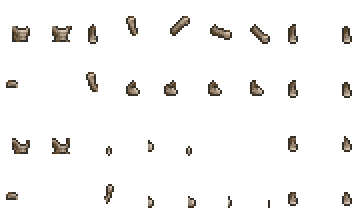
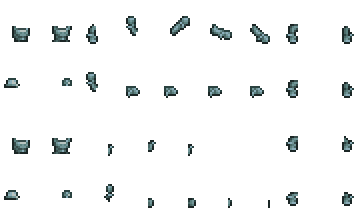
Sporewood armor and Sporangiophore items (sprites only on those ones)

diff --git a/Content/MycorrhizaBiome/SporewoodItems/SporewoodBreastplate.cs b/Content/MycorrhizaBiome/SporewoodItems/SporewoodBreastplate.cs
@@ -7,15 +7,17 @@ using Terraria.ModLoader;
 
 namespace Mycorrhiza.Content.MycorrhizaBiome.SporewoodItems
 {
-	public class SporewoodBreastplate : ModItem, ILocalizedModType
-	{
-		public new string LocalizationCategory => "Items";
+    [AutoloadEquip(EquipType.Body)]
+    public class SporewoodBreastplate : ModItem, ILocalizedModType
+    {
+        public new string LocalizationCategory => "Items";
 
-		public override void SetDefaults()
-		{
-			Item.width = 32;
-			Item.height = 32;
-		}
+        public override void SetDefaults()
+        {
+            Item.width = 22;
+            Item.height = 20;
+            Item.defense = 2;
+        }
 
         public override void AddRecipes()
         {

diff --git a/Content/MycorrhizaBiome/SporewoodItems/SporewoodGreaves.cs b/Content/MycorrhizaBiome/SporewoodItems/SporewoodGreaves.cs
@@ -7,15 +7,17 @@ using Terraria.ModLoader;
 
 namespace Mycorrhiza.Content.MycorrhizaBiome.SporewoodItems
 {
-	public class SporewoodGreaves : ModItem, ILocalizedModType
-	{
-		public new string LocalizationCategory => "Items";
+    [AutoloadEquip(EquipType.Legs)]
+    public class SporewoodGreaves : ModItem, ILocalizedModType
+    {
+        public new string LocalizationCategory => "Items";
 
-		public override void SetDefaults()
-		{
-			Item.width = 32;
-			Item.height = 32;
-		}
+        public override void SetDefaults()
+        {
+            Item.width = 22;
+            Item.height = 20;
+            Item.defense = 1;
+        }
 
         public override void AddRecipes()
         {

diff --git a/Content/MycorrhizaBiome/SporewoodItems/SporewoodHelmet.cs b/Content/MycorrhizaBiome/SporewoodItems/SporewoodHelmet.cs
@@ -16,7 +16,6 @@ namespace Mycorrhiza.Content.MycorrhizaBiome.SporewoodItems
         {
             Item.width = 22;
             Item.height = 20;
-            Item.value = Item.sellPrice(silver: 75);
             Item.defense = 1;
         }
 
